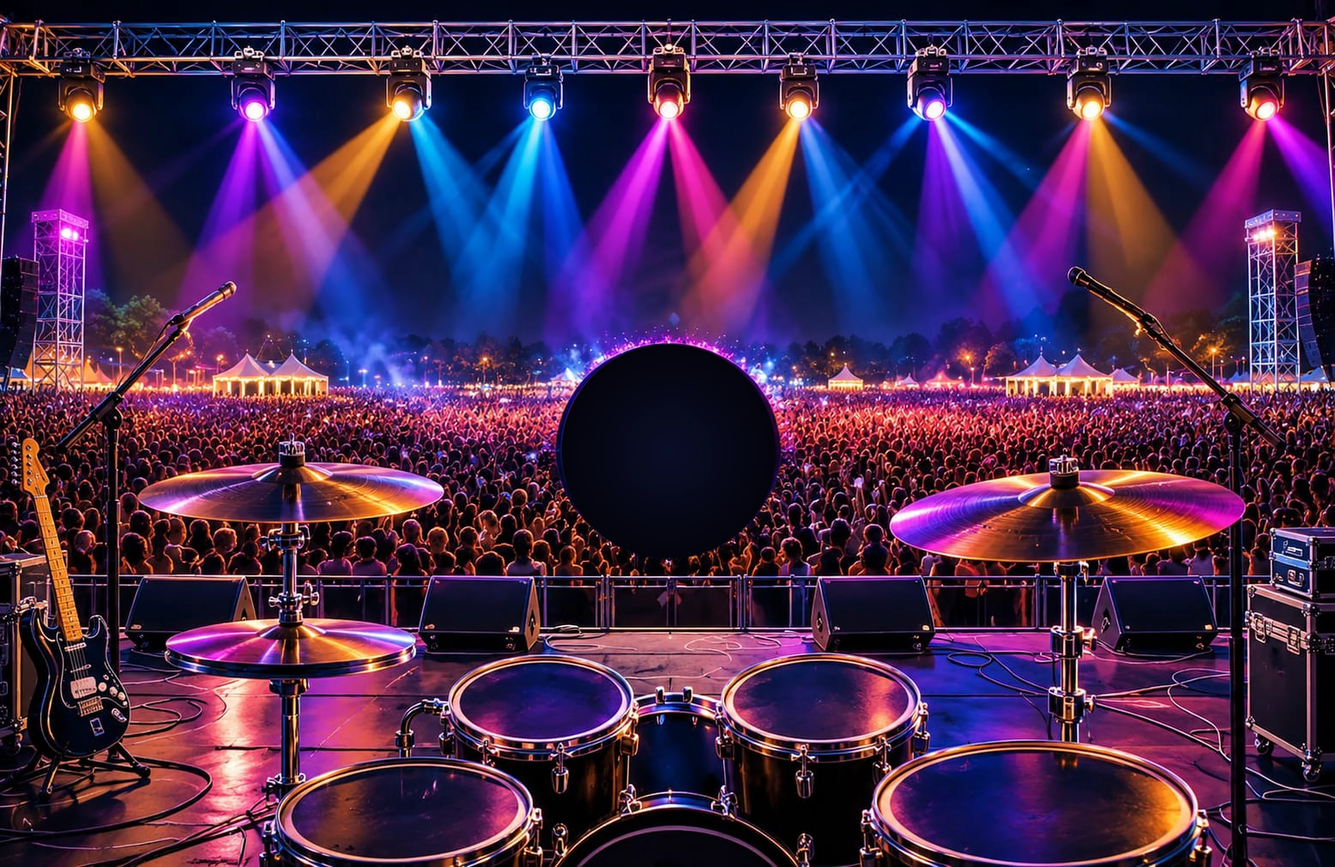
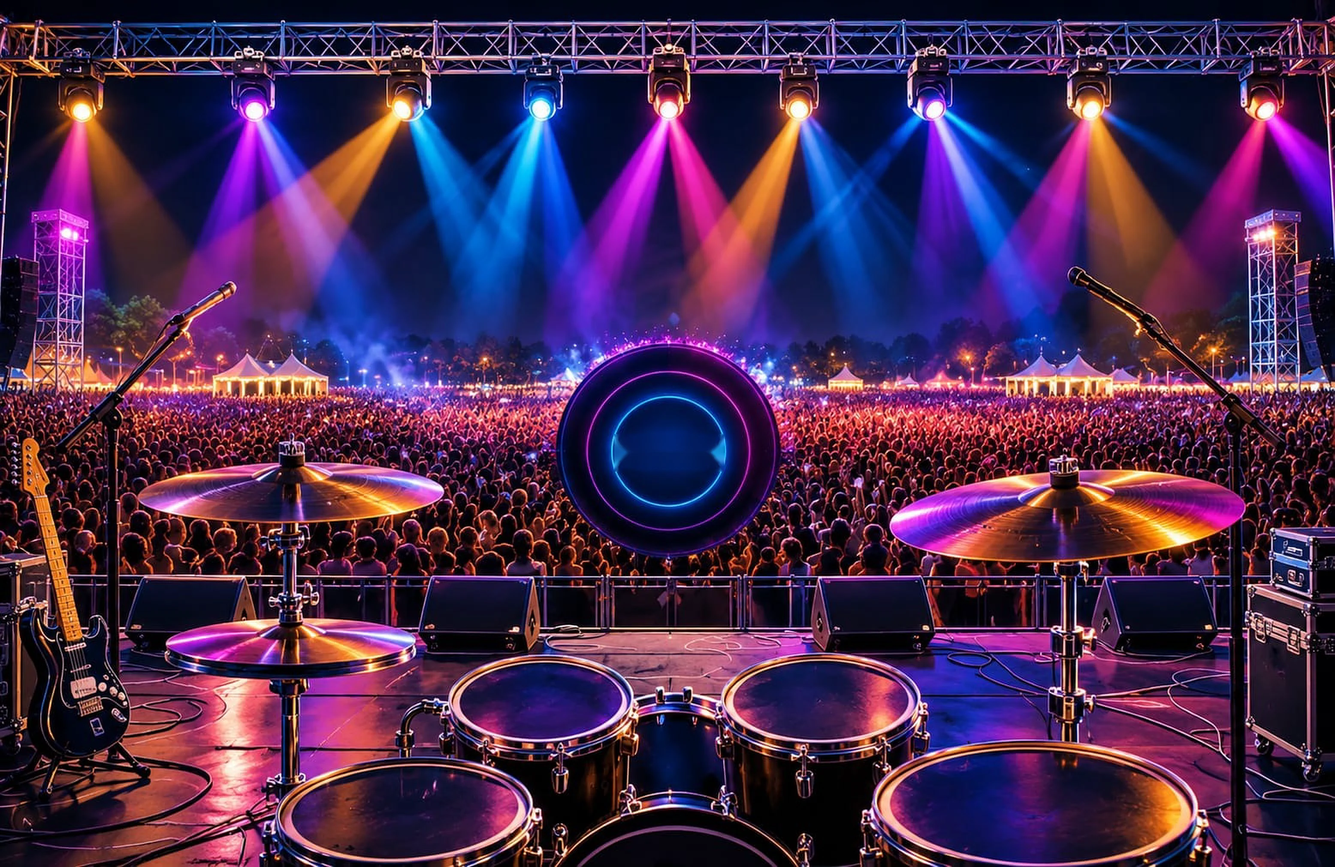
Intro: neon ring stage with overlaid ENTER and focused zoom
- New stage photo with neon rings (no painted text); glowing ENTER overlay
- Button tracks the hole in the art on any aspect ratio
- Hold zoom focuses on the button; pink progress ring on outer circle
- Cap per-frame progress step so a hidden tab can't jump the ring

Changed region(s): [[0.4052, 0.3739, 0.5922, 0.6543]]

diff --git a/components/pages/home/sections/Intro/sections/Stage/NeonStage.module.css b/components/pages/home/sections/Intro/sections/Stage/NeonStage.module.css
@@ -3,7 +3,7 @@
   position: absolute;
   inset: 0;
   z-index: 10;
-  background: #050302;
+  background: #02040c;
   overflow: hidden;
   touch-action: none;
   user-select: none;
@@ -19,6 +19,7 @@
 .cam {
   position: absolute;
   inset: 0;
+  transform-origin: var(--hx) var(--hy);
   transform: scale(calc(1 + var(--p, 0) * 1.6));
   filter: brightness(calc(0.85 + var(--p, 0) * 0.35));
   transition: transform 0.12s linear;
@@ -77,19 +78,21 @@
   position: absolute;
   inset: 0;
   pointer-events: none;
-  background: radial-gradient(ellipse at 50% 50%, transparent 45%, rgba(5, 3, 0, 0.75));
+  background: radial-gradient(ellipse at 50% 50%, transparent 45%, rgba(0, 2, 10, 0.75));
   opacity: calc(0.6 + var(--p, 0) * 0.4);
 }
 .center {
   position: absolute;
-  left: 50%;
-  top: 50%;
+  left: var(--hx);
+  top: var(--hy);
   width: calc(var(--hr) * 1.5);
   aspect-ratio: 1;
   translate: -50% -50%;
   display: grid;
   place-items: center;
   pointer-events: none;
+  transform: scale(calc(1 + var(--p, 0) * 1.6));
+  transition: transform 0.12s linear;
 }
 .intro[data-phase="blasting"] .center {
   opacity: 0;
@@ -100,7 +103,7 @@
   position: absolute;
   inset: 18%;
   border-radius: 50%;
-  border: 1px solid #ffc94d;
+  border: 1px solid #5fa8ff;
   animation: ripple 3.6s ease-out var(--l) infinite;
 }
 @keyframes ripple {
@@ -125,10 +128,10 @@
   width: 12px;
   height: 18px;
   margin: -9px 0 0 -6px;
-  background: linear-gradient(#fff8dc, #e0a526);
+  background: linear-gradient(#ffd0f4, #3d8bff);
   clip-path: polygon(50% 0, 100% 50%, 50% 100%, 0 50%);
   opacity: calc(0.25 + var(--p, 0) * 0.75);
-  filter: drop-shadow(0 0 6px #ffc94d);
+  filter: drop-shadow(0 0 6px #5fa8ff);
   transform: rotate(calc(var(--i) * 45deg))
     translateY(calc(var(--hr) * -1.15 + var(--p, 0) * var(--hr) * 0.35));
 }
@@ -146,38 +149,41 @@
 }
 .track {
   fill: none;
-  stroke: #ffc94d;
-  stroke-opacity: 0.2;
-  stroke-width: 0.025;
+  stroke: #ff5ce6;
+  stroke-opacity: 0;
+  stroke-width: 0.03;
 }
 .fill {
   fill: none;
-  stroke: #ffe08a;
+  stroke: #ff7cf0;
   stroke-width: 0.04;
   stroke-linecap: round;
-  filter: drop-shadow(0 0 0.04px #ffc94d);
+  filter: drop-shadow(0 0 0.05px #ff5ce6);
 }
 .btn {
   pointer-events: auto;
-  width: 58%;
+  width: 68%;
   aspect-ratio: 1;
   border-radius: 50%;
-  border: 1.5px solid #ffc94d;
-  background: radial-gradient(circle at 50% 40%, #0d1a3d, #030712 70%);
-  color: #ffd700;
+  border: 0;
+  background: transparent;
+  color: #fff;
   font:
-    600 clamp(14px, 1.6vw, 22px)/1 system-ui,
+    700 clamp(14px, 1.9vw, 26px)/1 system-ui,
     sans-serif;
-  letter-spacing: 0.3em;
+  letter-spacing: 0.12em;
+  text-shadow:
+    0 0 6px #3d8bff,
+    0 0 14px #3d8bff;
   display: grid;
   place-content: center;
   gap: 6px;
-  box-shadow: 0 0 calc(20px + var(--p, 0) * 40px) rgba(255, 190, 60, calc(0.4 + var(--p, 0) * 0.5));
+  box-shadow: 0 0 calc(10px + var(--p, 0) * 40px) rgba(61, 139, 255, calc(0.15 + var(--p, 0) * 0.6));
   cursor: inherit;
   animation: breathe 2.4s ease-in-out infinite;
 }
 .btn b {
-  padding-left: 0.3em;
+  padding-left: 0.12em;
 }
 .btn small {
   font-size: 0.6em;
@@ -186,7 +192,7 @@
 }
 @keyframes breathe {
   50% {
-    box-shadow: 0 0 34px rgba(255, 190, 60, 0.6);
+    box-shadow: 0 0 28px rgba(61, 139, 255, 0.45);
   }
 }
 .hint {
@@ -195,7 +201,7 @@
   bottom: 7%;
   translate: -50% 0;
   margin: 0;
-  color: #fff1c1;
+  color: #cfe3ff;
   font:
     500 13px system-ui,
     sans-serif;
@@ -221,9 +227,9 @@
   bottom: 24px;
   padding: 10px 20px;
   border-radius: 999px;
-  border: 1px solid rgba(255, 215, 0, 0.4);
-  background: rgba(10, 6, 0, 0.6);
-  color: #fff1c1;
+  border: 1px solid rgba(143, 196, 255, 0.4);
+  background: rgba(3, 7, 18, 0.6);
+  color: #cfe3ff;
   font:
     500 14px system-ui,
     sans-serif;
@@ -231,7 +237,7 @@
   backdrop-filter: blur(6px);
 }
 .skip:hover {
-  border-color: #ffe08a;
+  border-color: #8fc4ff;
 }
 @media (prefers-reduced-motion: reduce) {
   .beam,

diff --git a/components/pages/home/sections/Intro/sections/Stage/NeonStage.tsx b/components/pages/home/sections/Intro/sections/Stage/NeonStage.tsx
@@ -49,12 +49,17 @@ export function NeonStage() {
   const { phase, startLoading, cancelLoading, startBlast, setLoadProgress, skipIntro } = useIntro();
   const [p, setP] = useState(0);
   const [hr, setHr] = useState(0);
+  const [pos, setPos] = useState({ x: 0, y: 0 });
   const hold = useRef(false);
   const prog = useRef(0);
 
-  // Size the button to the hole in the stage art (image is cover-fitted)
+  // Size and place the button on the hole in the stage art (image is cover-fitted)
   useEffect(() => {
-    const fit = () => setHr(HR * Math.max(innerWidth / W, innerHeight / H));
+    const fit = () => {
+      const k = Math.max(innerWidth / W, innerHeight / H);
+      setHr(HR * k);
+      setPos({ x: innerWidth / 2 + (HX - W / 2) * k, y: innerHeight / 2 + (HY - H / 2) * k });
+    };
     fit();
     addEventListener("resize", fit);
     return () => removeEventListener("resize", fit);
@@ -67,7 +72,7 @@ export function NeonStage() {
     let raf = 0,
       last = performance.now();
     const tick = (t: number) => {
-      const dt = t - last;
+      const dt = Math.min(t - last, 100); // cap so a paused (hidden) tab cannot jump the ring
       last = t;
       const before = prog.current;
       const v = Math.min(1, Math.max(0, before + (hold.current ? dt / HOLD_MS : -dt / DROP_MS)));
@@ -116,8 +121,13 @@ export function NeonStage() {
 
   if (phase === "video" || phase === "complete") return null;
 
-  const C = 2 * Math.PI * 0.62;
-  const vars = { "--p": p, "--hr": hr + "px" } as CSSProperties;
+  const C = 2 * Math.PI * 0.95;
+  const vars = {
+    "--p": p,
+    "--hr": hr + "px",
+    "--hx": pos.x + "px",
+    "--hy": pos.y + "px",
+  } as CSSProperties;
   const release = () => (hold.current = false);
 
   return (
@@ -223,8 +233,8 @@ export function NeonStage() {
           ))}
         </div>
         <svg className={s.ring} viewBox="-1 -1 2 2" aria-hidden="true">
-          <circle r=".62" className={s.track} />
-          <circle r=".62" className={s.fill} strokeDasharray={C} strokeDashoffset={C * (1 - p)} />
+          <circle r=".95" className={s.track} />
+          <circle r=".95" className={s.fill} strokeDasharray={C} strokeDashoffset={C * (1 - p)} />
         </svg>
         <button className={s.btn} aria-label="Hold to enter" onKeyDown={(e) => e.preventDefault()}>
           <b>{p > 0 ? "HOLD" : "ENTER"}</b>
